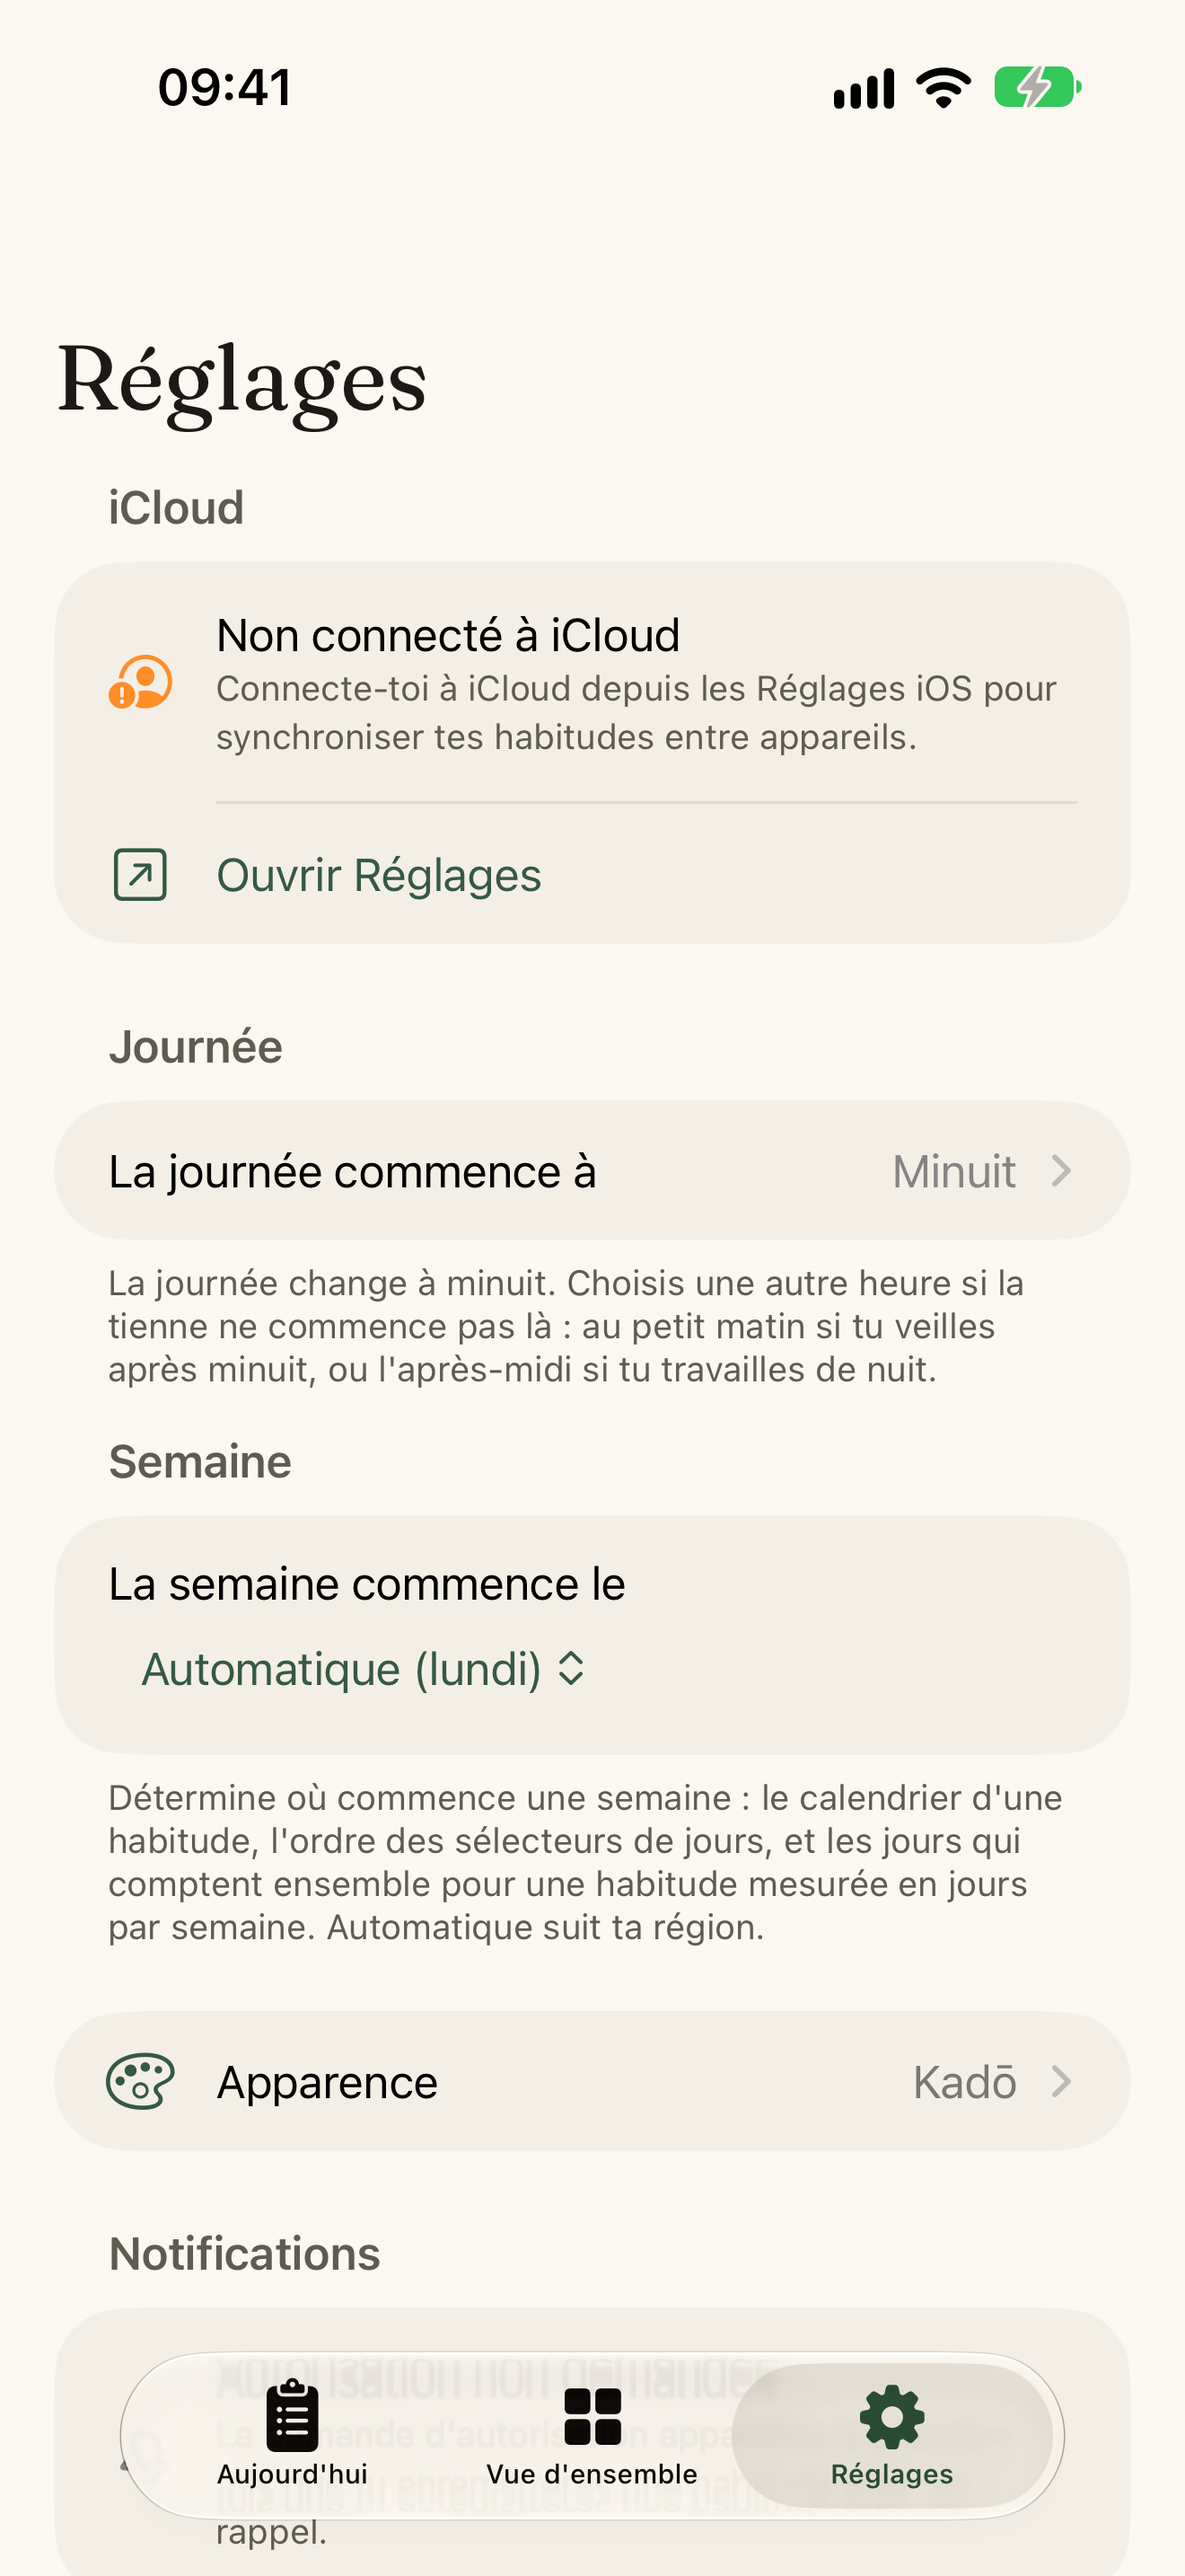
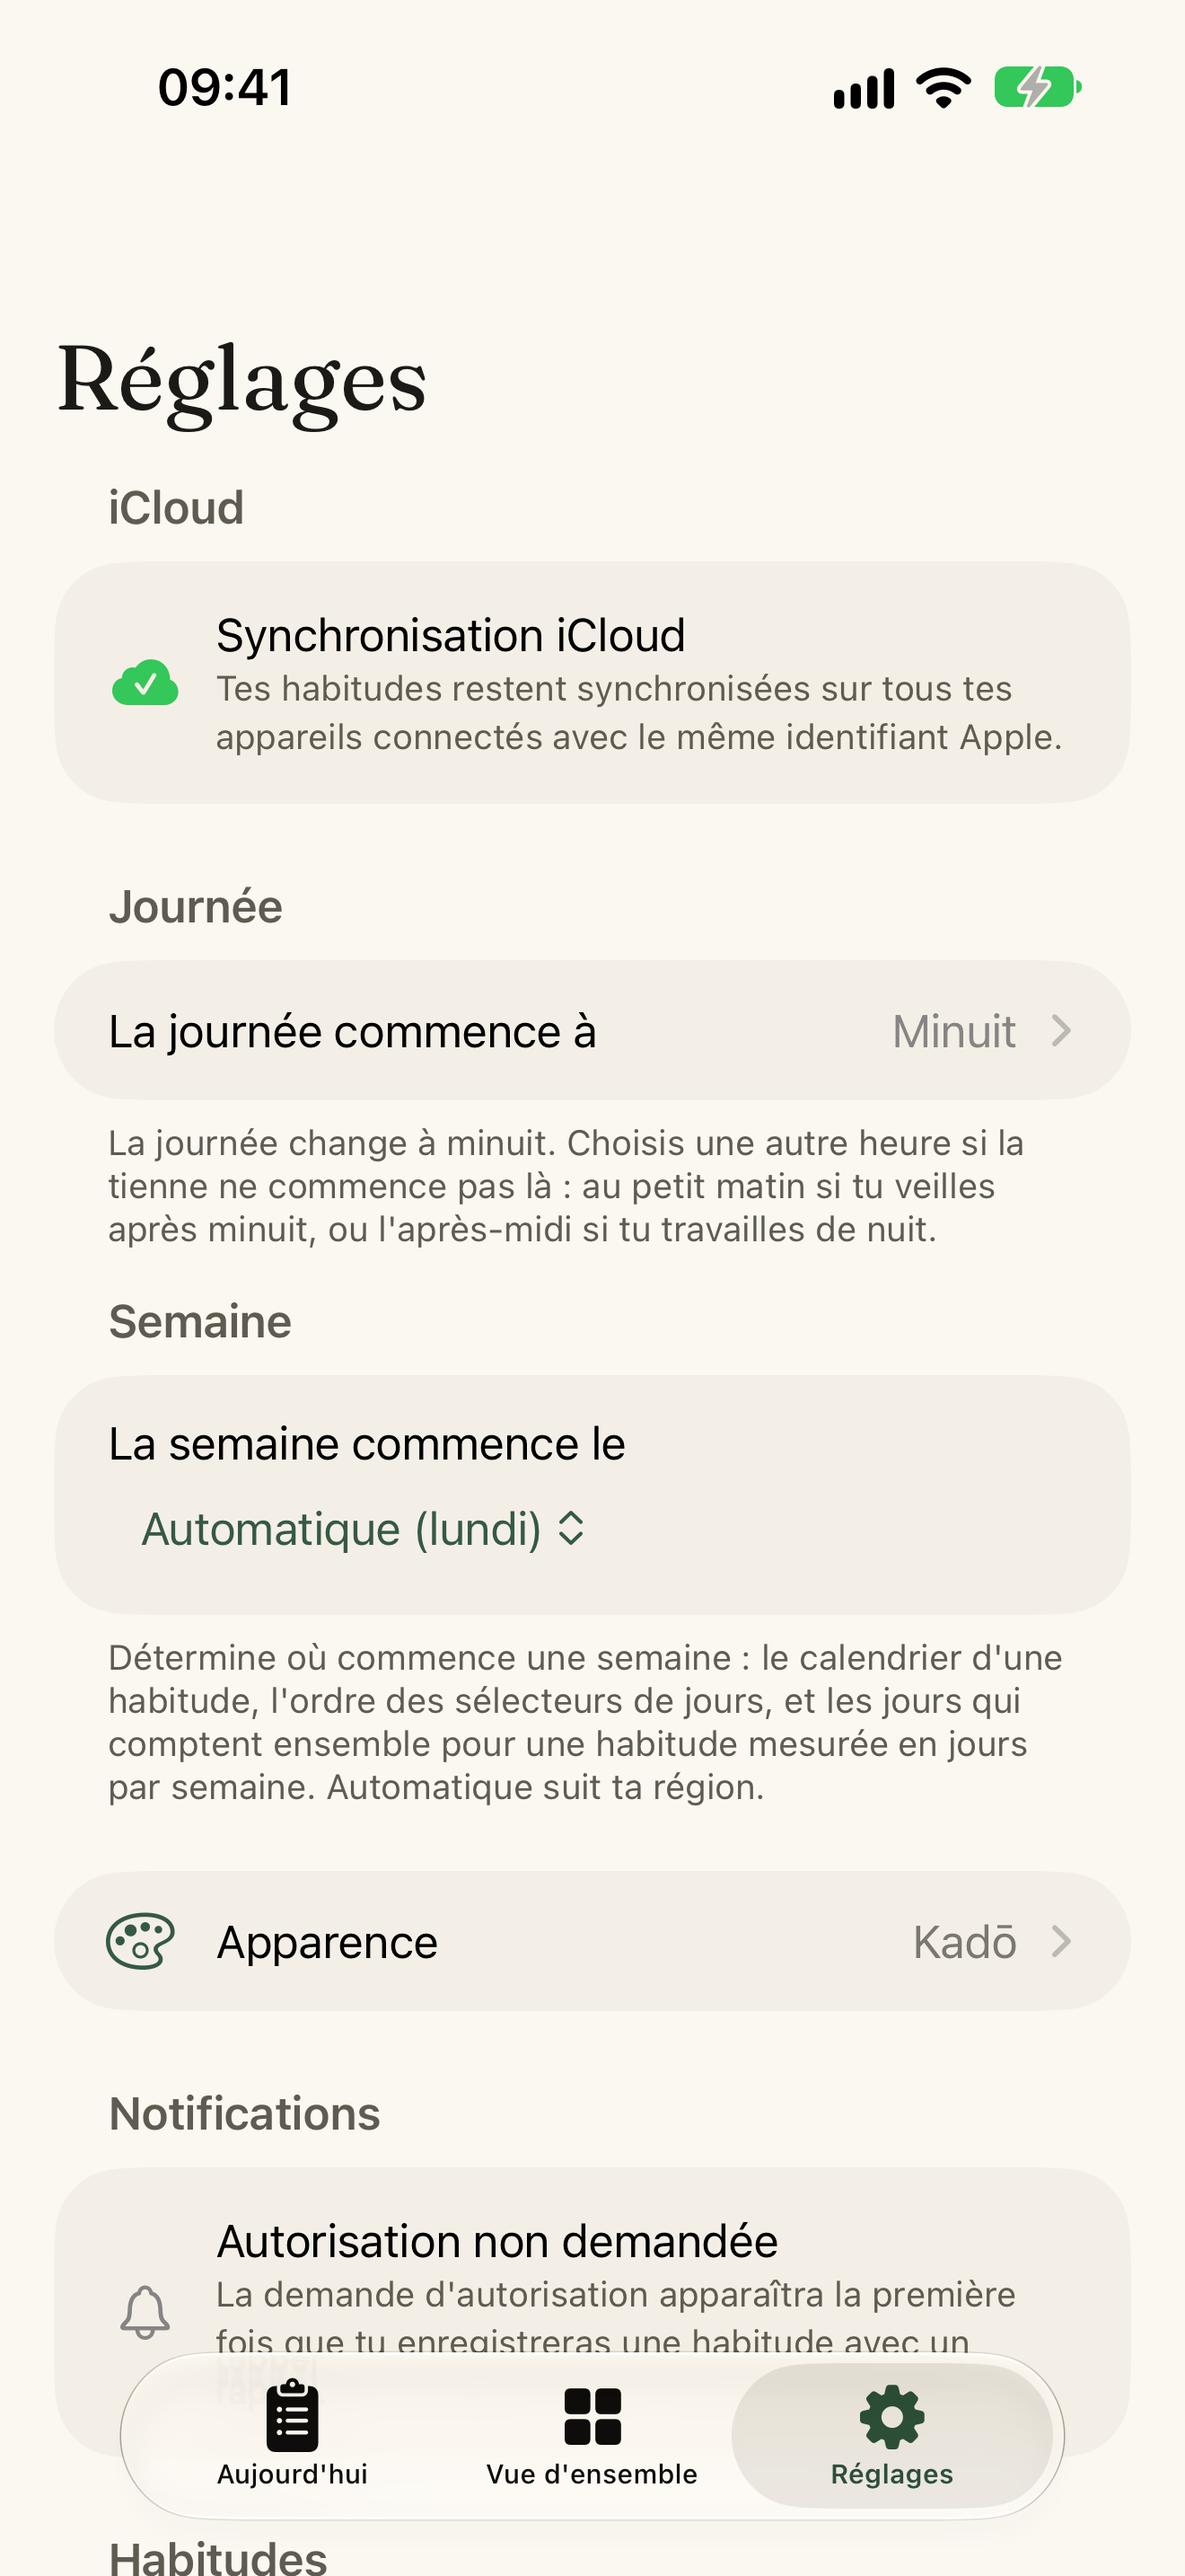
fix(screenshots): show a syncing iCloud account in the Settings shot
The screenshot run drops CloudKit, so the account observer honestly
reported "no account" and 06-settings, headlined "No account. No
tracking. Ever.", opened on an orange "Not signed in to iCloud" warning.

A Debug-only `-uiTestICloudAvailable` launch argument now makes KadoApp
stand in MockCloudAccountStatusObserver(.available, .healthy), the same
factory pattern as the supporter pack mock; ScreenshotTests passes it.
Release builds are unchanged. Only 06-settings is re-captured (EN + FR,
iPhone + iPad): a full re-capture also moved every date and score,
since the run pins the clock but not the calendar.

Closes #135

diff --git a/Kado/App/KadoApp.swift b/Kado/App/KadoApp.swift
@@ -16,7 +16,7 @@ struct KadoApp: App {
     @Environment(\.scenePhase) private var scenePhase
 
     @State private var devModeController = DevModeController()
-    @State private var cloudAccountStatus = DefaultCloudAccountStatusObserver()
+    @State private var cloudAccountStatus: any CloudAccountStatusObserving = Self.makeCloudAccountStatus()
     @State private var notificationScheduler: any NotificationScheduling
     @State private var notificationManager: NotificationManager
     @State private var tipJarStore = DefaultTipJarStore(tipNudge: DefaultTipNudgeService())
@@ -90,6 +90,18 @@ struct KadoApp: App {
                     .error("Couldn't reconcile the app icon: \(error.localizedDescription, privacy: .public)")
             }
         }
+    }
+
+    /// CloudKit's account observer — or, on a UI test run that asked
+    /// for one, a signed-in account with healthy sync, since a test run
+    /// has no CloudKit to sign in to.
+    private static func makeCloudAccountStatus() -> any CloudAccountStatusObserving {
+        #if DEBUG
+        if UITestSupport.reportsICloudAvailable {
+            return MockCloudAccountStatusObserver(status: .available, syncHealth: .healthy)
+        }
+        #endif
+        return DefaultCloudAccountStatusObserver()
     }
 
     /// StoreKit's store — or, on a UI test run that asked to own the

diff --git a/Kado/Support/UITestSupport.swift b/Kado/Support/UITestSupport.swift
@@ -102,12 +102,25 @@ nonisolated enum UITestSupport {
         /// here a user can change later — see the note at the top of
         /// this file.
         static let habitTheme = "-uiTestHabitTheme"
+        /// Report a signed-in iCloud account with healthy sync. A run
+        /// under `-uiTestRun` drops CloudKit, so the real observer
+        /// honestly says "no account" — and the Settings screenshot,
+        /// headlined "No account. No tracking. Ever.", then opened on
+        /// an orange sign-in warning (#135).
+        static let iCloudAvailable = "-uiTestICloudAvailable"
     }
 
     /// Whether `KadoApp` should stand in an owning mock for StoreKit.
     static var forcesSupporter: Bool {
         isRunningUITests
             && ProcessInfo.processInfo.arguments.contains(Argument.supporter)
+    }
+
+    /// Whether `KadoApp` should stand in a signed-in, syncing iCloud
+    /// account for the real observer.
+    static var reportsICloudAvailable: Bool {
+        isRunningUITests
+            && ProcessInfo.processInfo.arguments.contains(Argument.iCloudAvailable)
     }
 
     /// Whether the root view should be the widget gallery.

diff --git a/KadoUITests/ScreenshotTests.swift b/KadoUITests/ScreenshotTests.swift
@@ -92,7 +92,8 @@ final class ScreenshotTests: KadoUITestCase {
             language: Self.runLanguage,
             locale: Self.runLocale,
             seedForScreenshots: true,
-            supporter: true
+            supporter: true,
+            iCloudAvailable: true
         )
         waitForTodayRows(in: supporter)
         tapTab(.settings, in: supporter)
@@ -194,7 +195,12 @@ final class ScreenshotTests: KadoUITestCase {
             language: Self.runLanguage,
             locale: Self.runLocale,
             seedForScreenshots: true,
-            suppressNameAutoFocus: true
+            suppressNameAutoFocus: true,
+            // A signed-in, syncing account: the run has no CloudKit, and
+            // the honest "Not signed in to iCloud" warning it would
+            // otherwise show opened the Settings shot — headlined "No
+            // account. No tracking. Ever." — on an error state (#135).
+            iCloudAvailable: true
         )
     }
 

diff --git a/KadoUITests/KadoUITestCase.swift b/KadoUITests/KadoUITestCase.swift
@@ -70,7 +70,8 @@ class KadoUITestCase: XCTestCase {
         supporter: Bool = false,
         habitTheme: String? = nil,
         appearanceAnnouncement: Bool = false,
-        tipNudgeReady: Bool = false
+        tipNudgeReady: Bool = false,
+        iCloudAvailable: Bool = false
     ) -> XCUIApplication {
         let app = XCUIApplication()
         app.launchArguments = ["-uiTestRun"]
@@ -101,6 +102,9 @@ class KadoUITestCase: XCTestCase {
         }
         if tipNudgeReady {
             app.launchArguments.append("-uiTestTipNudgeReady")
+        }
+        if iCloudAvailable {
+            app.launchArguments.append("-uiTestICloudAvailable")
         }
         if let habitTheme {
             app.launchArguments += ["-uiTestHabitTheme", habitTheme]

diff --git a/Scripts/appstore.py b/Scripts/appstore.py
@@ -1006,7 +1006,7 @@ def push_screenshots(
         for file in files
     ]
     if to_upload:
-        print(f"\nThe library — {len(to_upload)} file(s) to place")
+        print(f"\nThe library — {len(to_upload)} file(s) in groups that changed")
     ids = ensure_images(
         client, library_id, SCREENSHOT_CATEGORY, to_upload,
         library_index(client, library_id, SCREENSHOT_CATEGORY) if to_upload else {},
